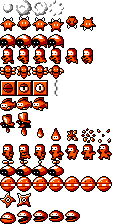
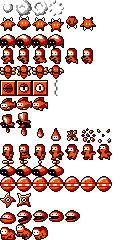
Nice bunny

diff --git a/src/bunny.js b/src/bunny.js
@@ -3,16 +3,16 @@ import { Enemy } from "./enemy.js";
 import { Vector2 } from "./engine/vector.js";
 
 //
-// A jumping clam
+// Like clam, but does not try to reach the player
 //
 // (c) 2019 Jani Nykänen
 //
 
 
-const WAIT_TIME = 30;
+const WAIT_TIME = 60;
 
 
-export class Clam extends Enemy {
+export class Bunny extends Enemy {
 
 
     constructor(x, y) {
@@ -20,21 +20,22 @@ export class Clam extends Enemy {
         super(x, y, 0);
 
         this.w = 8;
-        this.h = 10;
+        this.h = 12;
 
         this.hitArea = new Vector2(4, 4);
 
         this.acc.x = 0.1;
         this.acc.y = 0.1;
 
-        this.maxHealth = 3;
+        this.maxHealth = 2;
         this.health = this.maxHealth;
 
-        this.spr.setFrame(13, 0);
+        this.spr.setFrame(14, 0);
 
-        this.dir = -1;
+        this.dir = ((this.pos.x/16)|0) % 2 == 0 ? -1 : 1;
+        this.flip = this.dir == 1 ? Flip.Horizontal : Flip.None;
 
-        this.center.y = -2;
+        this.center.y = -1;
         this.pos.y -= this.center.y - 1;
         this.startPoint.y = this.pos.y;
         this.canJump = true;
@@ -56,11 +57,9 @@ export class Clam extends Enemy {
     // Update AI
     updateAI(pl, ev) {
 
-        const GRAVITY = 2.0;
-        const JUMP_HEIGHT = -1.5;
-        const JUMP_MOD = 3.0;
+        const GRAVITY = 1.5;
+        const JUMP_HEIGHT = -2.5;
         const SPEED = 0.5;
-        const SPEED_MOD = 0.70;
 
         this.target.y = GRAVITY;
 
@@ -73,14 +72,9 @@ export class Clam extends Enemy {
             if (this.waitTimer <= 0.0) {
 
                 this.waitTimer += WAIT_TIME;
-                this.speed.y = JUMP_HEIGHT + 
-                    Math.min(0, (pl.pos.y-this.pos.y)/144*JUMP_MOD);
+                this.speed.y = JUMP_HEIGHT;
 
-                this.dir = pl.pos.x < this.pos.x ? -1 : 1;
-
-                this.target.x = 
-                    (SPEED + (Math.abs(pl.pos.x-this.pos.x)/160*SPEED_MOD))
-                    * this.dir;
+                this.target.x = this.dir * SPEED;
                 this.speed.x = this.target.x;
             }
         }
@@ -94,17 +88,17 @@ export class Clam extends Enemy {
     // Animate
     animate(ev) {
 
-        const ANIM_SPEED = 5;
+        const EPS = 0.5;
 
         this.flip = this.dir == 1 ? Flip.Horizontal : Flip.None;
 
-        if (this.canJump) {
+        if (this.canJump || Math.abs(this.speed.y) < EPS) {
 
-            this.spr.setFrame(13, 0);
+            this.spr.setFrame(14, 0);
         }
         else {
 
-            this.spr.animate(13, 1, 4, ANIM_SPEED, ev.step);
+            this.spr.setFrame(14, this.speed.y < 0 ? 1 : 2);
         }
     }
 }

diff --git a/src/replica.js b/src/replica.js
@@ -17,7 +17,7 @@ export class Replica extends Enemy {
         super(x, y, 0);
 
         this.w = 8;
-        this.h = 14;
+        this.h = 10;
 
         this.hitArea = new Vector2(4, 4);
 
@@ -32,8 +32,8 @@ export class Replica extends Enemy {
 
         this.dir = ((x/16)|0) % 2 == 0 ? -1 : 1;
 
-        this.center.y = 0;
-        this.pos.y += (16 - this.h) + this.center.y;
+        this.center.y = -2;
+        this.pos.y -= this.center.y -1;
         this.startPoint.y = this.pos.y;
         this.canJump = true;
     }

diff --git a/src/stage.js b/src/stage.js
@@ -14,6 +14,7 @@ import { SkyBeetle } from "./skybeetle.js";
 import { Drone } from "./drone.js";
 import { Star } from "./star.js";
 import { Clam } from "./clam.js";
+import { Bunny } from "./bunny.js";
 
 //
 // Handles the game stage rendering
@@ -631,6 +632,7 @@ export class Stage {
             Drone.prototype,
             Star.prototype,
             Clam.prototype,
+            Bunny.prototype,
         ];
 
         let t;

diff --git a/src/enemy.js b/src/enemy.js
@@ -263,7 +263,8 @@ export class Enemy extends GameObject {
 
         if (this.harmless || e.harmless ||
             !this.exist || this.dying ||
-            !e.exist || e.dying) return;
+            !e.exist || e.dying ||
+            this.isStatic || e.isStatic) return;
 
         let r1 = Math.hypot(this.w/2, this.h/2);
         let r2 = Math.hypot(e.w/2, e.h/2);
